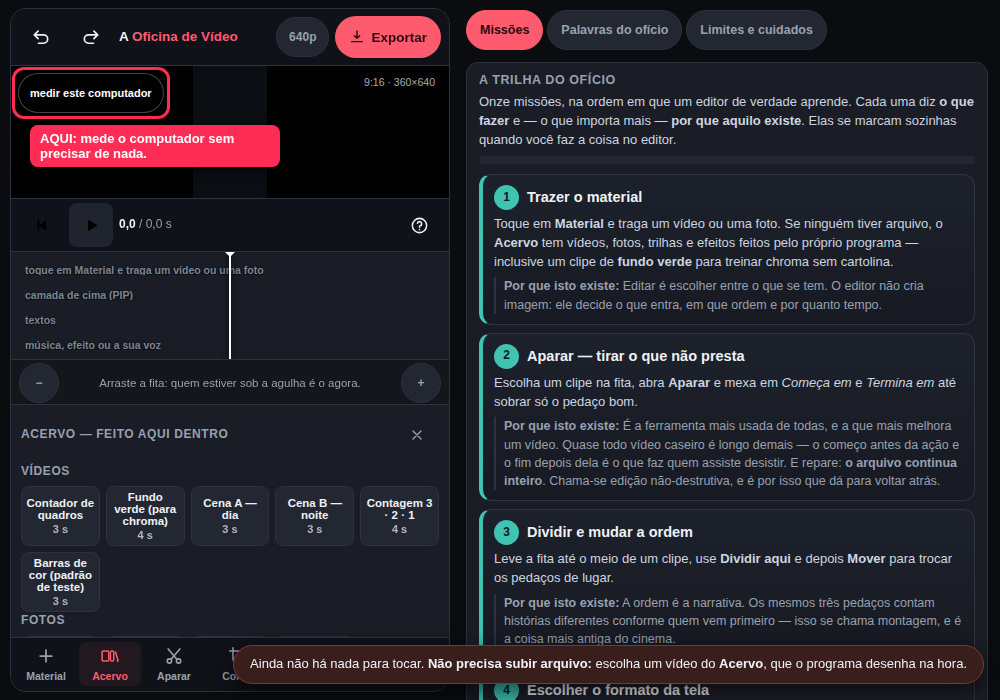
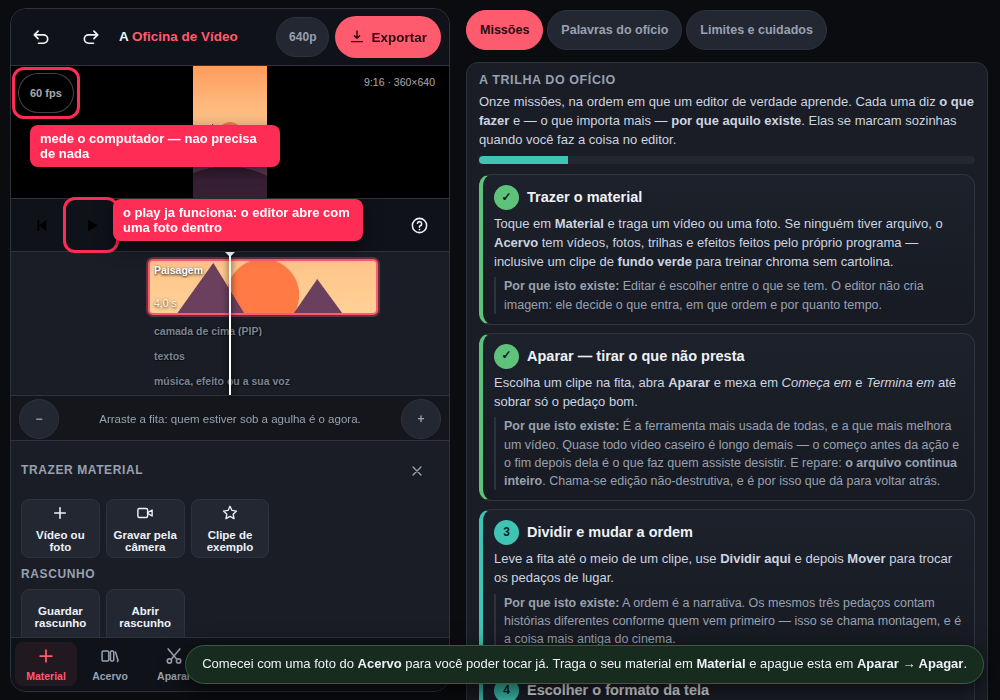
Atualiza index.html

diff --git a/index.html b/index.html
@@ -2164,11 +2164,19 @@ var ultimoT = 0, fpsAcc = 0, fpsN = 0, fpsMost = 0;
 function tocar(){
   if(TOCANDO) return;
   if(!PROJ.clipes.length && !PROJ.audios.length){
-    /* ⚠ recado que só diz "faltou" e não mostra a porta obriga a pessoa a
-       procurar. Aqui o programa ABRE a gaveta do acervo junto com o aviso. */
-    abreGaveta("acervo");
-    recado("Ainda não há nada para tocar. <b>Não precisa subir arquivo:</b> " +
-           "escolha um vídeo do <b>Acervo</b>, que o programa desenha na hora.", "erro");
+    /* ⚠⚠ AQUI ESTAVA O MEU ERRO, e o Marcos teve de dizer TRÊS vezes
+       (24/set/2026: *"precisa subir algo para esse play funcionar"*, depois
+       *"quando eu clico ele diz pra subir algo"*, depois *"ele fala que precisa
+       de arquivo para tocar quando clico no play"*).
+       Eu tinha melhorado o RECADO duas vezes — primeiro o texto, depois abrindo
+       a gaveta junto — e as duas vezes errei o alvo: **o problema não era o
+       recado, era o botão brigar em vez de funcionar.** Botão de tocar toca.
+       Agora ele põe material e toca; o aviso vem DEPOIS, contando o que
+       aconteceu, e não antes, pedindo trabalho.
+       ⚠ E o material é uma FOTO, não um dos vídeos do acervo: foto se desenha
+       num piscar, e vídeo leva os seus 3 segundos de gravação — botão de tocar
+       que faz esperar é o mesmo defeito com outra roupa. */
+    semeiaMaterial();
     return;
   }
   audioCtx();
@@ -2406,7 +2414,9 @@ var MISSOES = [
      "inclusive um clipe de <b>fundo verde</b> para treinar chroma sem cartolina.",
    p:"Editar é escolher entre o que se tem. O editor não cria imagem: ele decide " +
      "o que entra, em que ordem e por quanto tempo.",
-   ok:function(){ return PROJ.clipes.length > 0; }},
+   ok:function(){
+     var k; for(k = 0; k < PROJ.clipes.length; k++) if(!PROJ.clipes[k].semente) return true;
+     return false; }},
 
   {t:"Aparar — tirar o que não presta",
    f:"Escolha um clipe na fita, abra <b>Aparar</b> e mexa em <i>Começa em</i> e " +
@@ -2418,6 +2428,7 @@ var MISSOES = [
    ok:function(){
      var k; for(k = 0; k < PROJ.clipes.length; k++){
        var c = PROJ.clipes[k];
+       if(c.semente) continue;                 /* a foto de partida não conta */
        if(c.ini > 0.05 || c.fim < c.fonteDur - 0.05) return true;
      } return false; }},
 
@@ -4182,6 +4193,9 @@ function iniciar(){
     return "";
   });
 
+  /* ⚠ semeia SEM tocar: som que começa sozinho é proibido pelo navegador e
+     indelicado com a sala. A foto entra, o ▶ fica pronto. */
+  semeiaMaterial(false);
   primeiraVez();
 }
 
@@ -4331,6 +4345,37 @@ function contaDaProva(fps, W, H){
     recado("Tamanho agora: " + medidaDaSaida().join("×") + ". Toque no número da prévia " +
            "para medir de novo.", "bom");
   };
+}
+
+/* ⭐ O EDITOR NUNCA FICA VAZIO. Ele nasce com uma foto do próprio acervo na
+   fita, para que o ▶ funcione no primeiro toque e a pessoa veja o programa
+   andando antes de ter de decidir qualquer coisa.
+   ⚠ É a lição que o Marcos me ensinou três vezes num dia só: **tela vazia com
+   instrução não é começo, é obstáculo.** */
+function semeiaMaterial(tocarDepois){
+  var f = null, k;
+  for(k = 0; k < FOTOS.length; k++) if(FOTOS[k].k === "paisagem") f = FOTOS[k];
+  if(!f) f = FOTOS[0];
+  if(!f) return;
+  fazFoto(f, false);
+  /* `fazFoto` termina no `onload` da imagem, que é o próximo quadro */
+  setTimeout(function(){
+    if(PROJ.clipes.length){
+      PROJ.clipes[0].fim = 4; PROJ.clipes[0].fonteDur = 30;
+      PROJ.clipes[0].zoom = {de: 1, para: 1.18};   /* para a prévia ter movimento */
+      /* ⚠ A FOTO DE PARTIDA NÃO CONTA MISSÃO, e isto importa: sem a marca, ela
+         dava as duas primeiras por cumpridas assim que a página abria — o
+         relatório diria que a criança trouxe material e aparou um clipe sem
+         ela ter encostado em nada. Missão que se marca sozinha por causa do
+         cenário mede o programa, não o aluno. A marca nunca se apaga. */
+      PROJ.clipes[0].semente = true;
+      tudo();
+      recado("Comecei com uma foto do <b>Acervo</b> para você poder tocar já. " +
+             "Traga o seu material em <b>Material</b> e apague esta em " +
+             "<b>Aparar → Apagar</b>.", "bom");
+      if(tocarDepois !== false) tocar();
+    }
+  }, 120);
 }
 
 /* ---------------- a primeira tela ---------------- */
